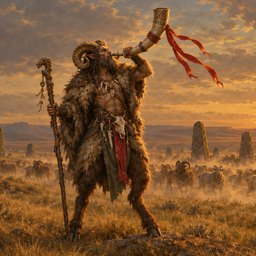
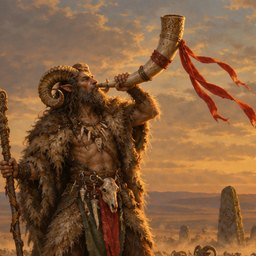
Wild Herd portraits: busts of the Satyr Horn-lord and the Satyr Piper, the Aurochs Scout closer (backlog 61g)

diff --git a/scripts/assets/herds_cards.py b/scripts/assets/herds_cards.py
@@ -24,7 +24,10 @@ ADJ = {
     'warRhino': (+0.12, 0.84, 0.0),       # the whole horn
     'muskOx': (+0.06, 0.86, 0.0),
     'bullMoose': (0.0, 0.86, -0.04),      # closer, the antlers in full
+    'aurochsScout': (+0.05, 0.88, 0.0),   # a little to the right and closer
 }
+# Busts (head and torso, like the portrait of Indrik): name: (side as a share of the height, cx, cy as shares of width / height).
+BUST = {'satyrHornlord': (0.62, 0.50, 0.30), 'satyrPiper': (0.52, 0.47, 0.27)}
 MIN_SIDE, MAX_SIDE = 0.70, 1.0   # shares of the picture's height
 if __name__ == '__main__':
     out = sys.argv[1] if len(sys.argv) > 1 else 'public/assets/cards'
@@ -33,6 +36,13 @@ if __name__ == '__main__':
         im.resize((640, 442), Image.LANCZOS).save(f'{out}/art/{name}.jpg', quality=88)
         if name in KEEP_PORTRAIT: continue
         w, h = im.size
+        if name in BUST:
+            bs, bx, by = BUST[name]
+            sp = round(bs * h)
+            left = min(max(round(bx * w - sp / 2), 0), w - sp)
+            top = min(max(round(by * h - sp / 2), 0), h - sp)
+            im.crop((left, top, left + sp, top + sp)).resize((256, 256), Image.LANCZOS).save(f'{out}/portraits/{name}.jpg', quality=86)
+            continue
         side = min(MAX_SIDE, max(MIN_SIDE, max((x1 - x0) * w / h, y1 - y0) * MARGIN))
         dx, k, dy = ADJ.get(name, (0.0, 1.0, 0.0))
         sp = round(side * k * h)
